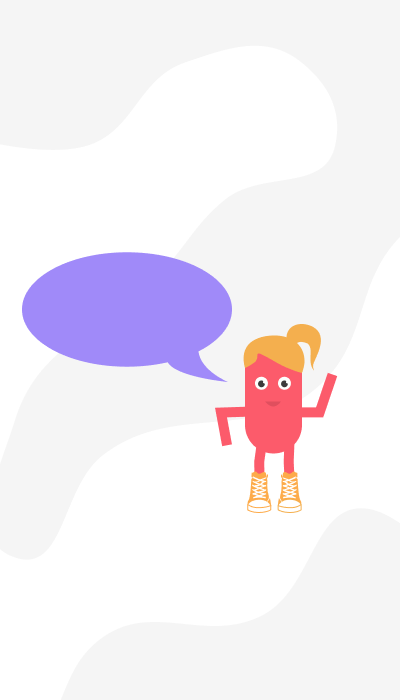
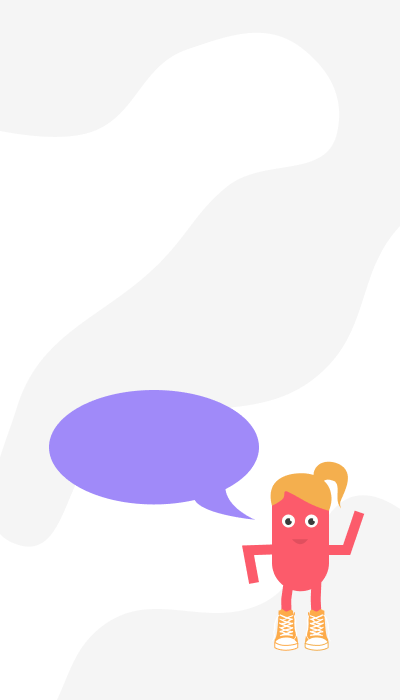
results page responsive design to be finished

Changed region(s): [[0.03, 0.36, 0.93, 0.93]]

diff --git a/client/src/components/gameResultScreen.css b/client/src/components/gameResultScreen.css
@@ -1,6 +1,6 @@
 table {
   margin: auto;
-  margin-top: 10px;
+  margin-top: 10%;
   }
   
   th {
@@ -17,7 +17,7 @@ table {
   }
 
 .GameResultSplash {
-  background: url('../assets/results.png');
+  background: url('../assets/Stage.png');
   width: 400px;
   height: 700px;
   border: 1px solid rgb(97, 75, 75);
@@ -27,20 +27,23 @@ table {
   color: white
 }
 
-.GameResultSplash a {
-  text-decoration: none;
-  color: rgb(1, 171, 209);
-  font-size: 1rem;
-  position: relative;
-  top: 270px;
+.LilySpeak {
+  margin-top: 45%;
 }
 
 .LilyText {
-  width: 220px;
+  width: 40%;
   font-size: 1.1rem;
-  position: absolute;
-  top: 260px;
-  margin-left: 15px;
+}
+
+.Home img {
+  width: 12%;
+}
+
+.Home {
+  position: relative;
+  bottom: 8%;
+  right: 30%;
 }
 
 @media (max-width: 320px) {

diff --git a/client/src/components/gameResultScreen.js b/client/src/components/gameResultScreen.js
@@ -24,10 +24,15 @@ const GameResultScreen = ({ top5, lastScore }) => {
           ))}
         </tbody>
       </table>
-      <p className="LilyText">Awesome job, you managed to collect <br></br>{lastScore} Ohmmmms.</p>
-      <Link className="GameLink" to="/game-selection">
-        back to Game Selection
-      </Link>
+      <div className="LilySpeak">
+        <p className="LilyText">Awesome job, you managed to collect <br></br>{lastScore} Ohmmmms.</p>
+        <img src="../assets/lilyspeak.png" alt="lily speak" />
+      </div>
+      <div className="Home">
+        <Link to="/game-selection">
+          <img src="../assets/home.png" alt="home"/>
+        </Link>
+      </div>
     </div>
   );
 };
